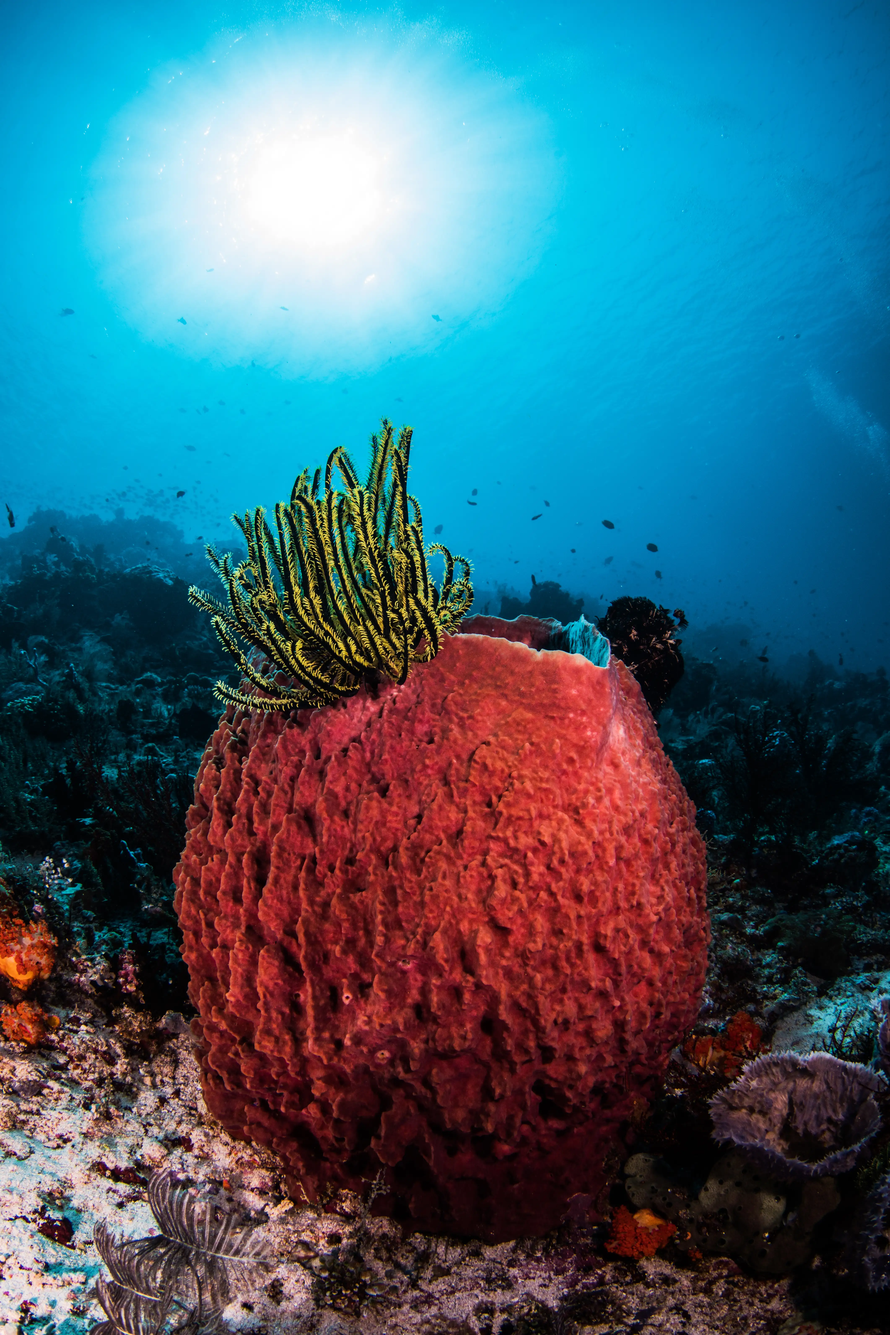
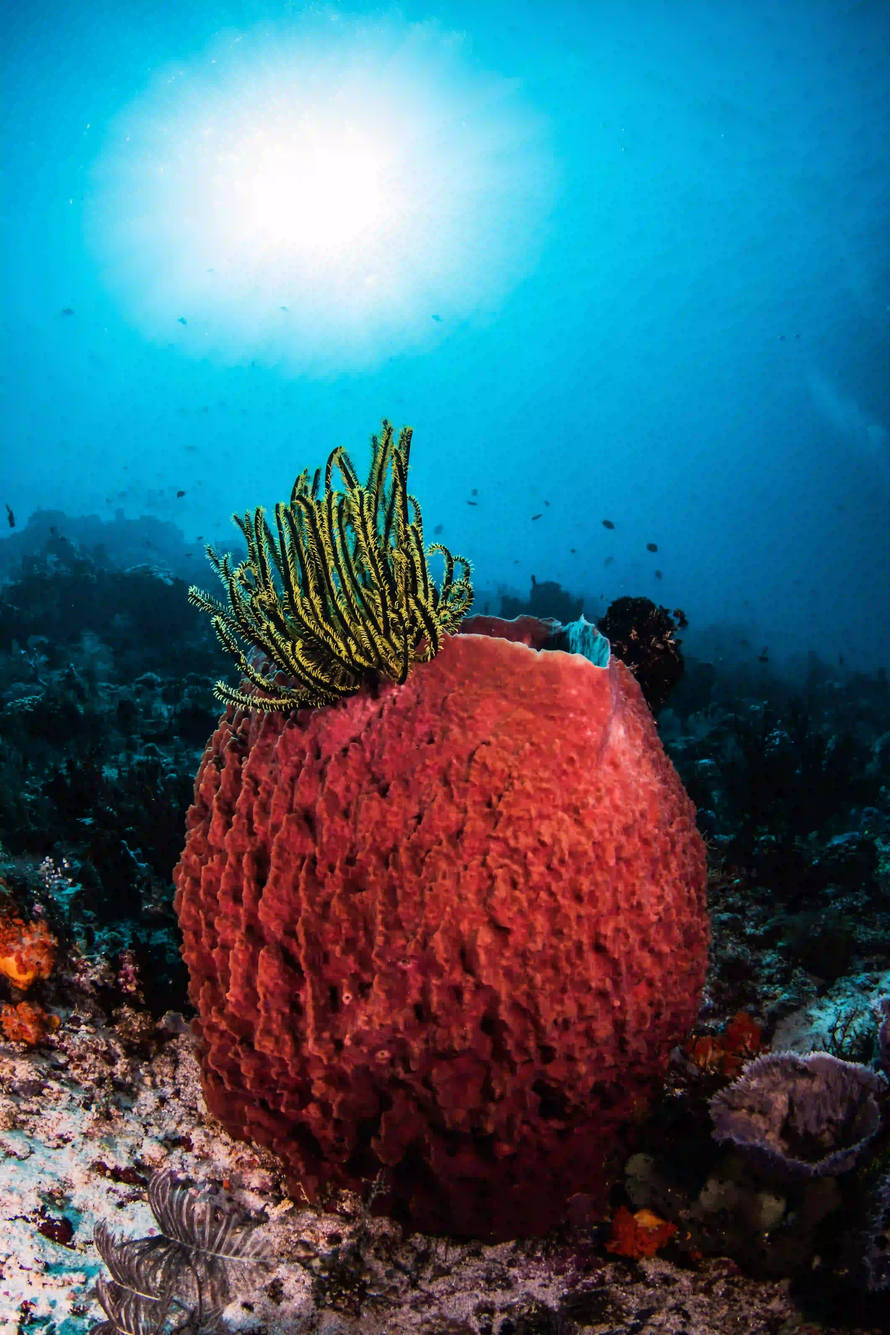
Optimize images

diff --git a/src/content/posts/dive-site.md b/src/content/posts/dive-site.md
@@ -9,7 +9,7 @@ tags:
   - Site
   - SSI
 pubDate: 2024-05-18
-cover: https://res.cloudinary.com/primayuda/image/upload/v1716027286/Divers%20Paradise%20Komodo/komodomap_j3owiu.png
+cover: https://res.cloudinary.com/primayuda/image/upload/v1716083816/Divers%20Paradise%20Komodo/komodomap-opti_vfv6ai.webp
 coverAlt: Map of Komodo National Park
 author: AP
 ---
